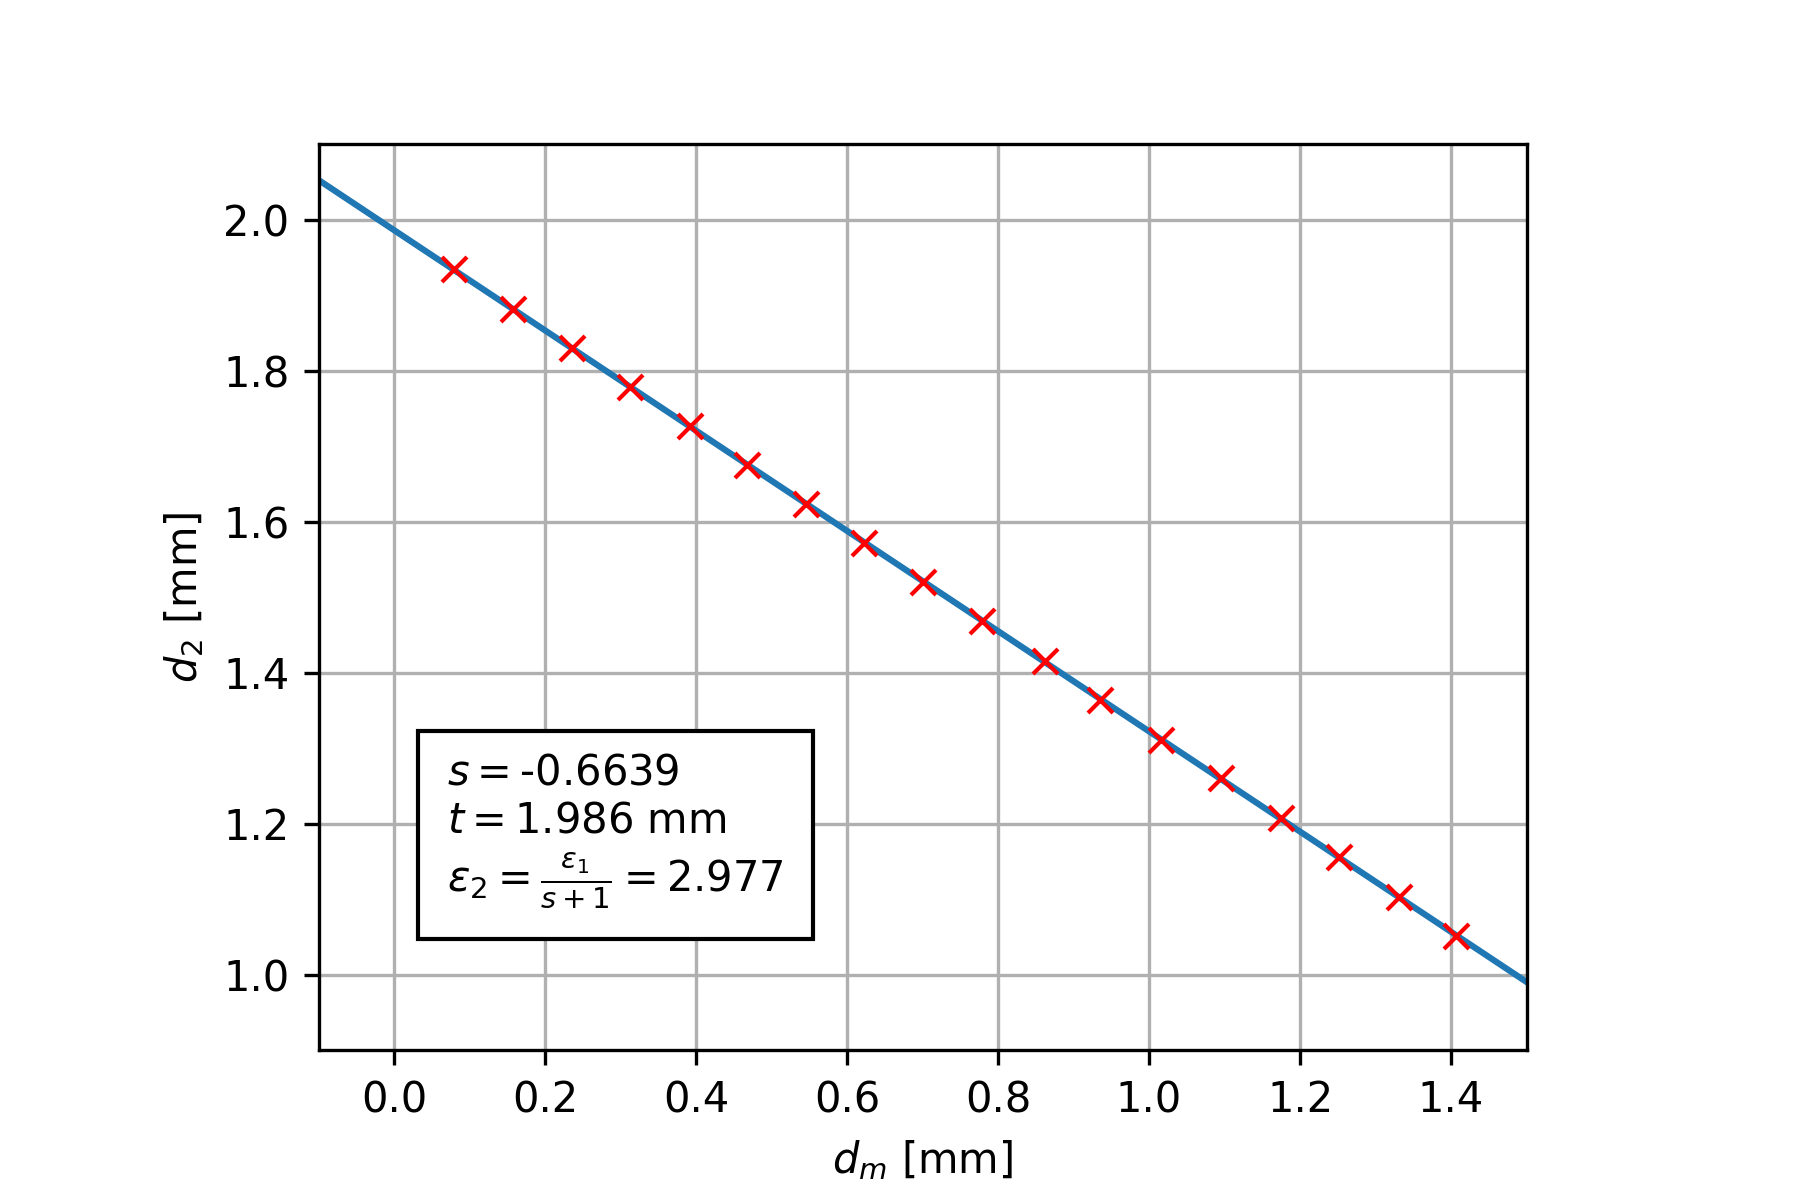
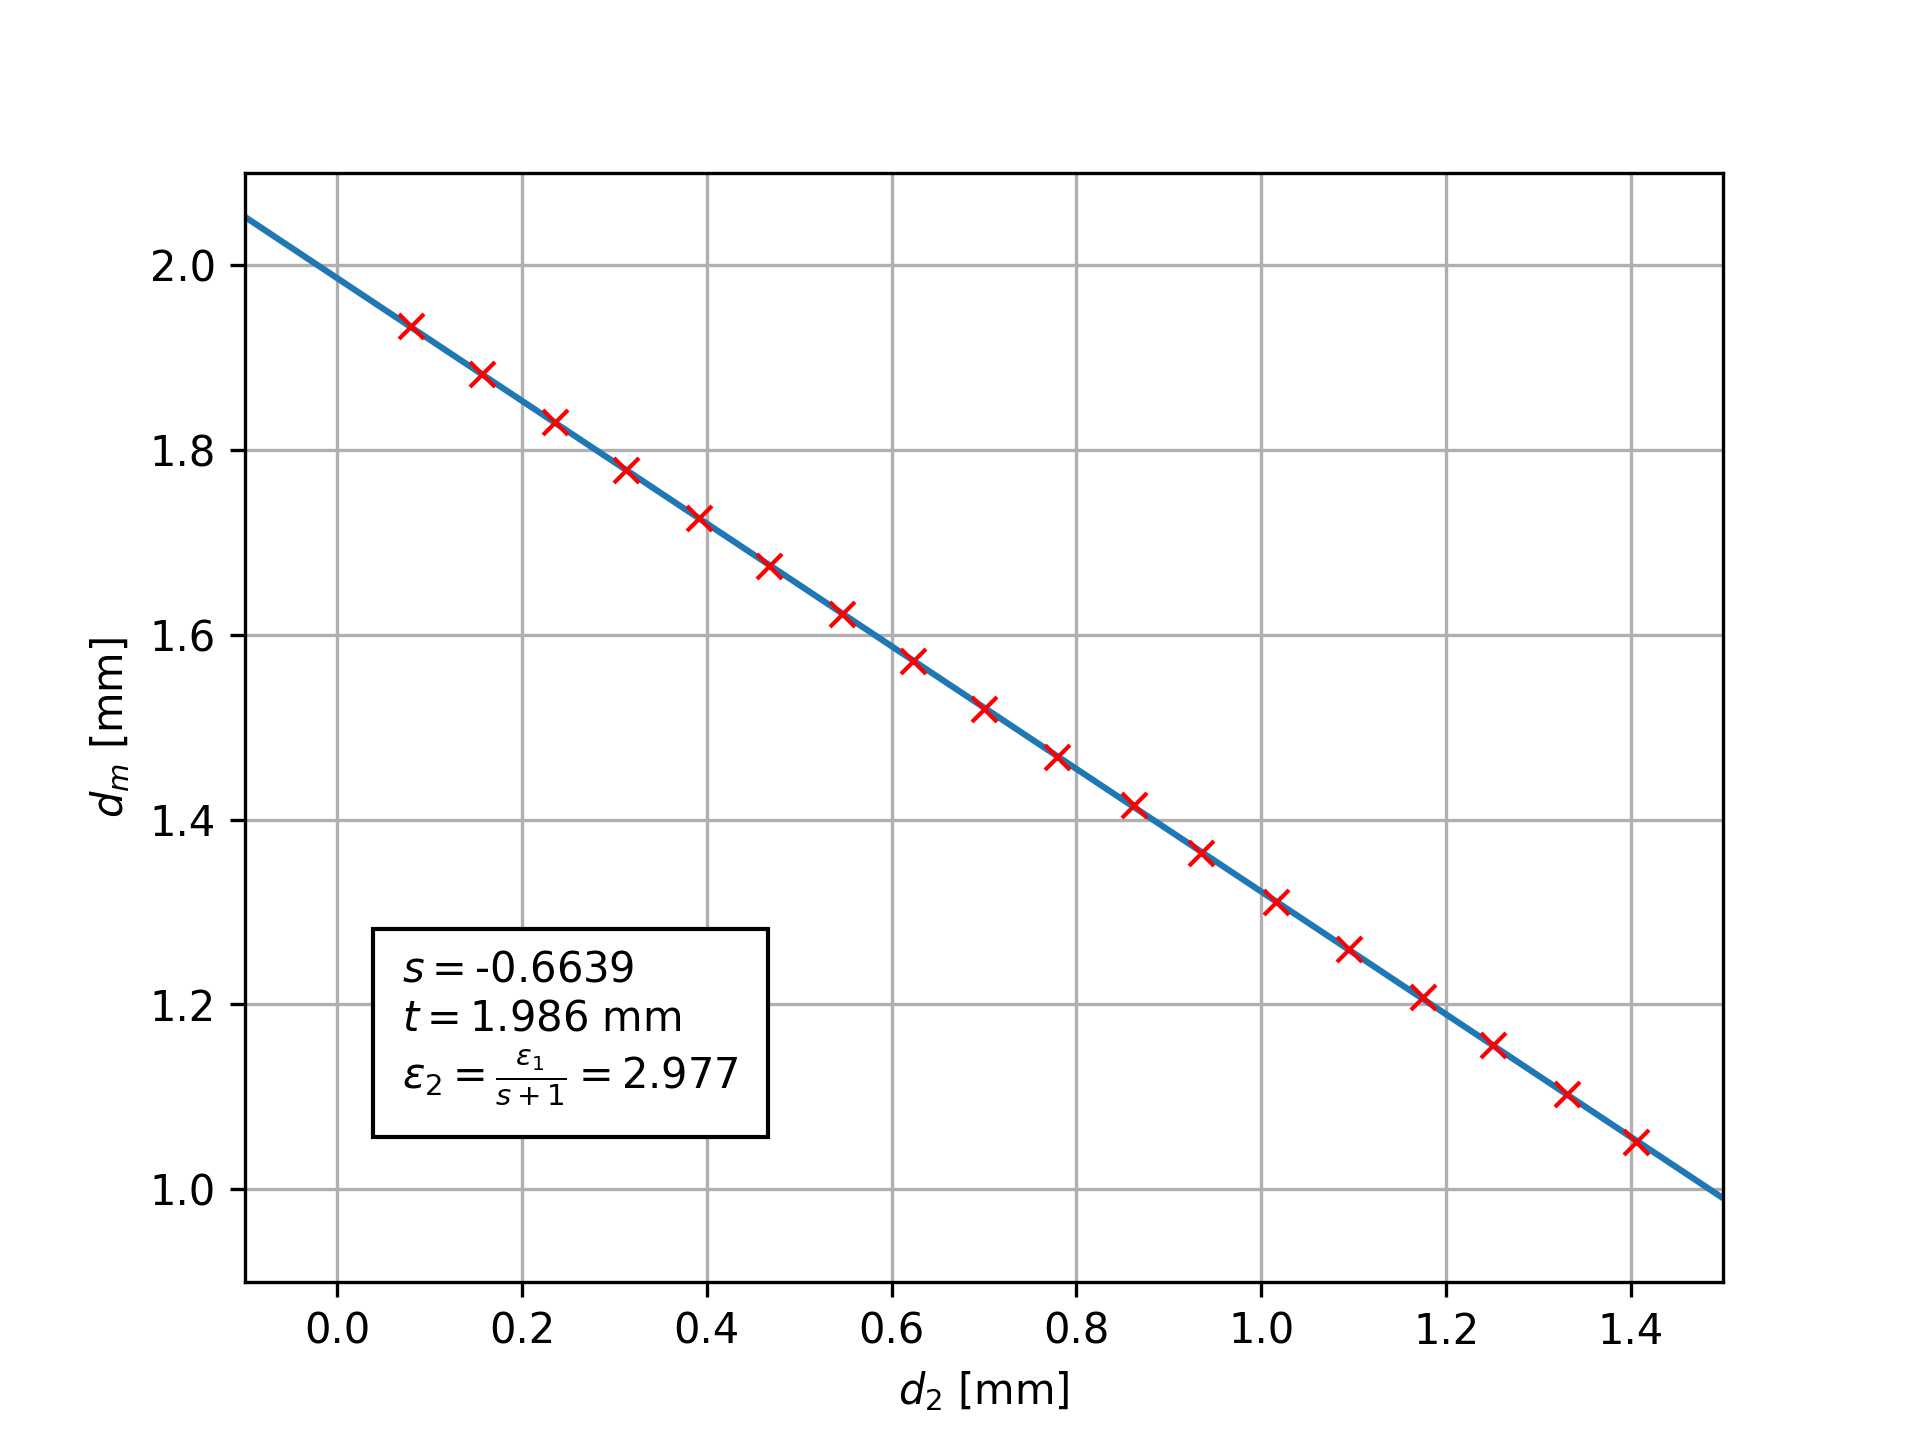
Correct axes label for epsilon analysis plot.

Changed region(s): [[0.0311, 0.1233, 0.9022, 0.925], [0.4667, 0.9558, 0.56, 0.9867], [0.1244, 0.0925, 0.1556, 0.1233]]

diff --git a/epsilon_analysis.py b/epsilon_analysis.py
@@ -36,8 +36,8 @@ plt.axes().set_aspect(1)
 plt.xlim([-0.1, 1.5])
 plt.ylim([0.9, 2.1])
 plt.grid()
-plt.xlabel("$d_m$ [mm]")
-plt.ylabel("$d_2$ [mm]")
+plt.xlabel("$d_2$ [mm]")
+plt.ylabel("$d_m$ [mm]")
 
 value_text = ("$s=${:.4}\n".format(slope) +
                "$t=${:.4} mm \n".format(intercept) + 
